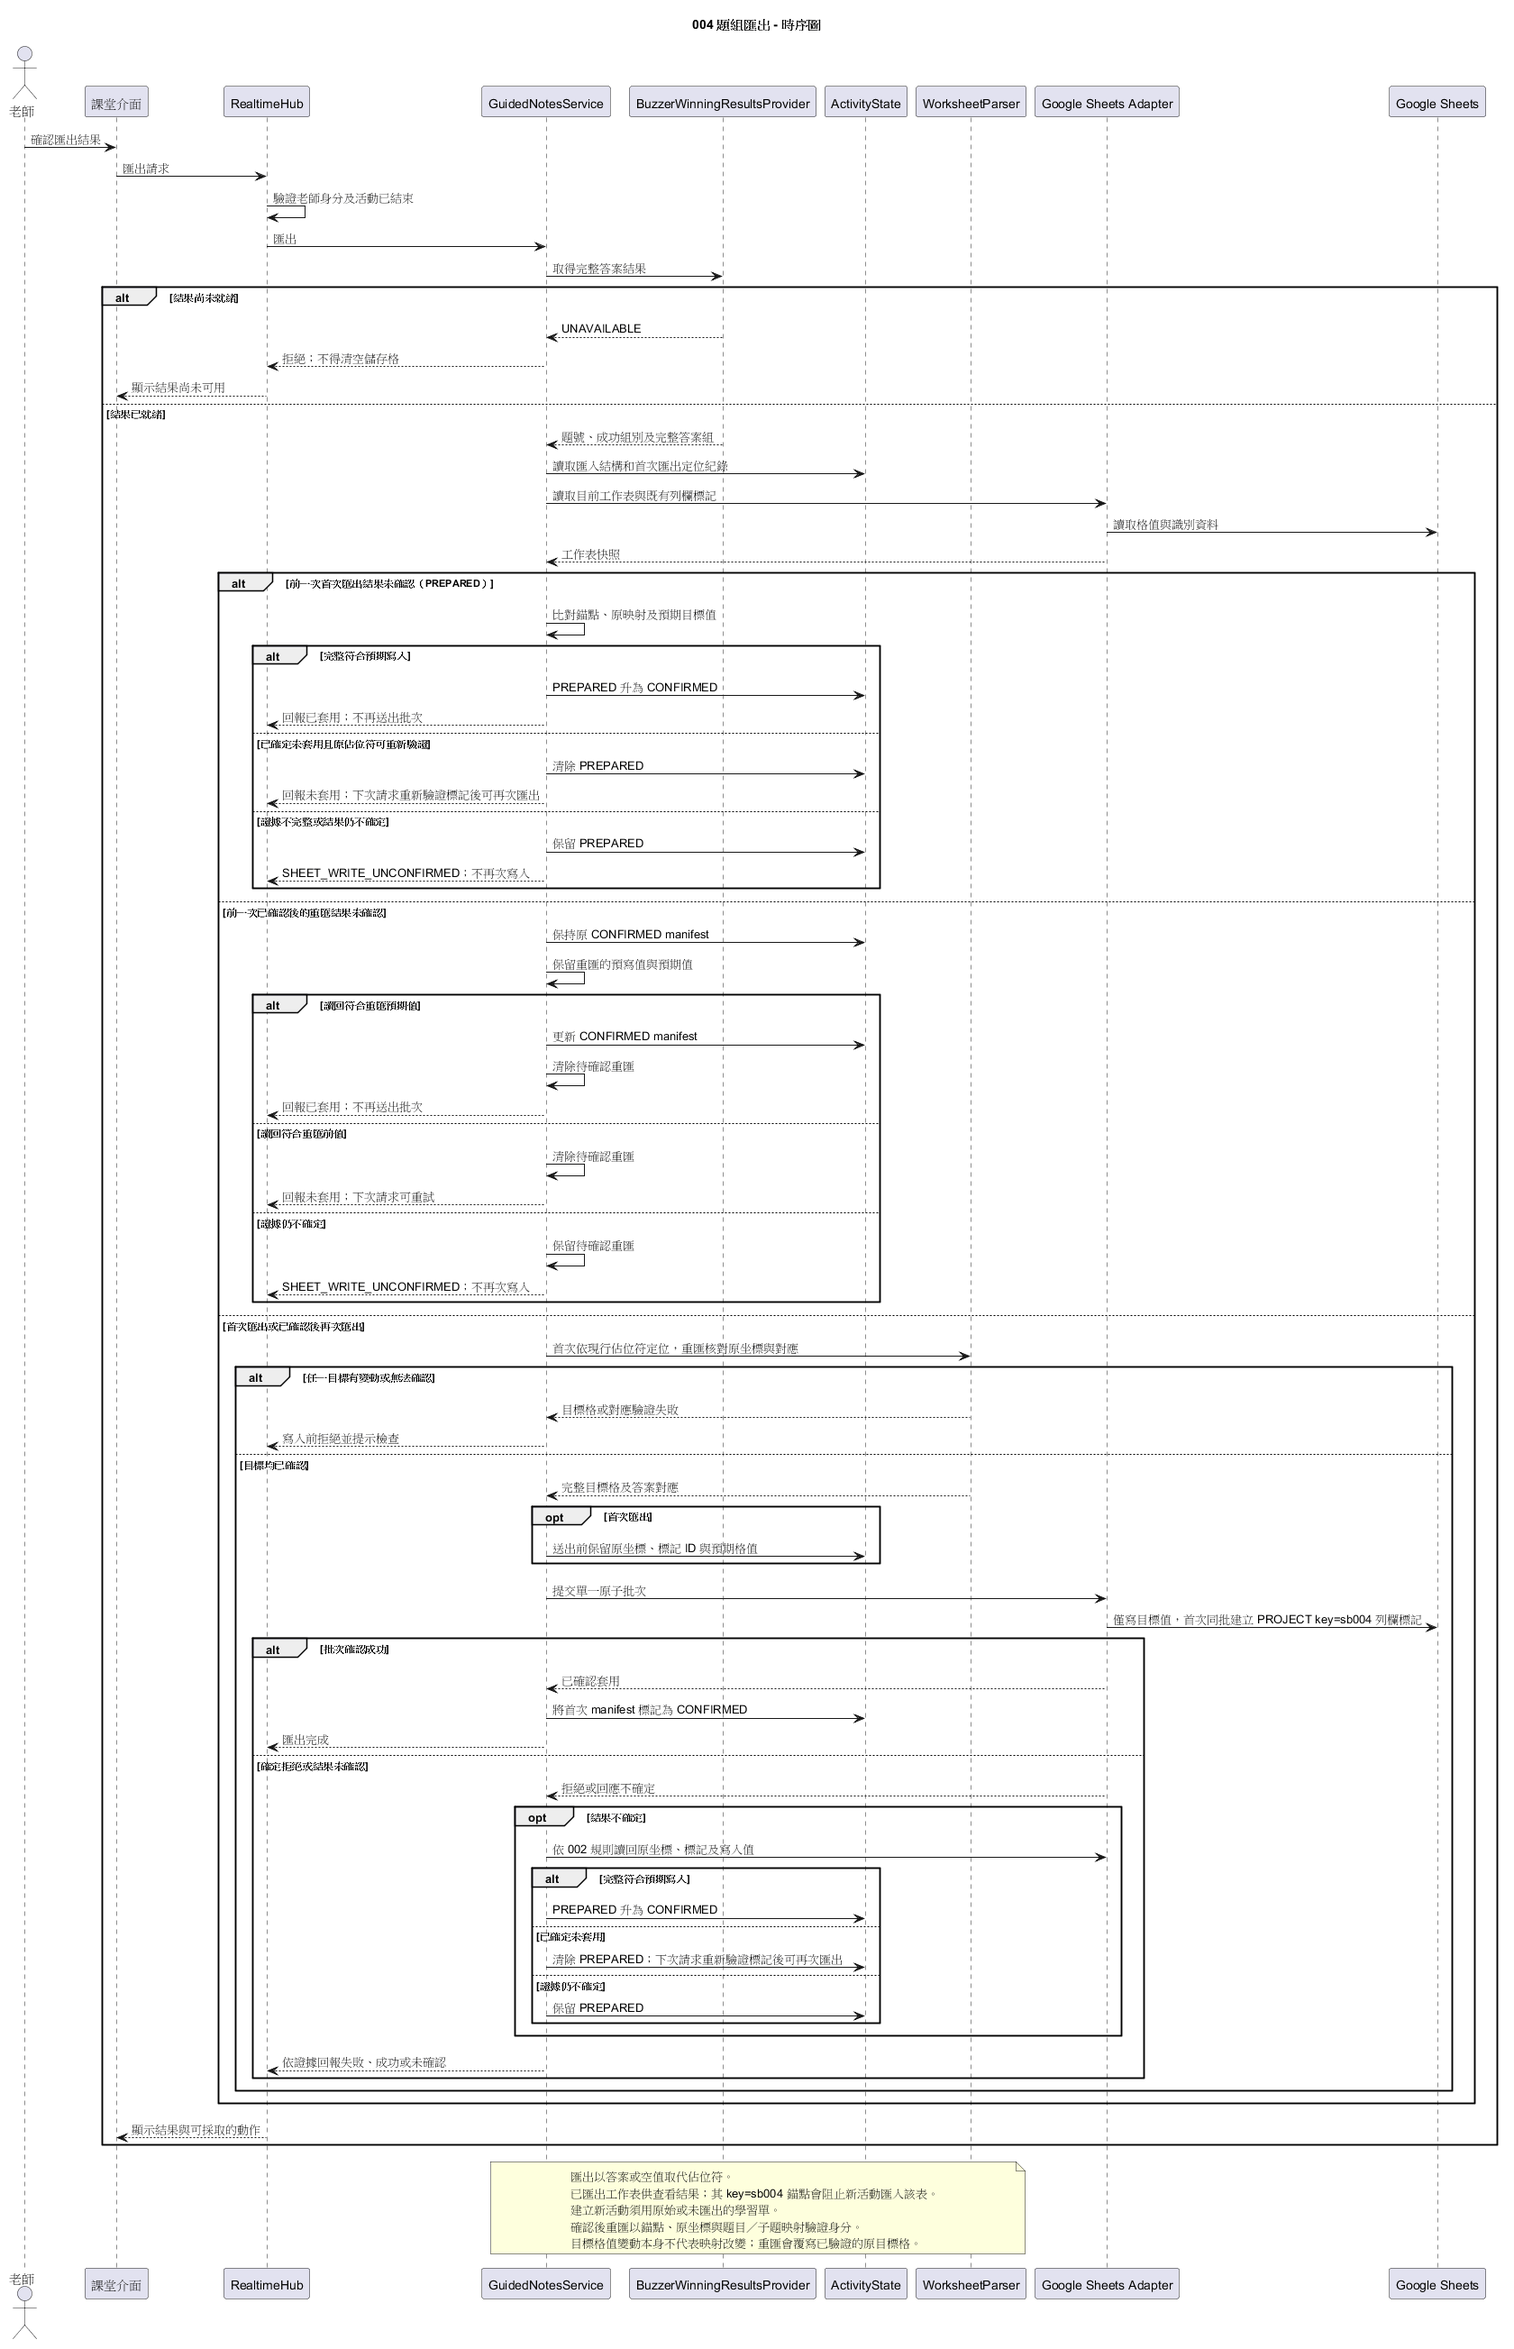
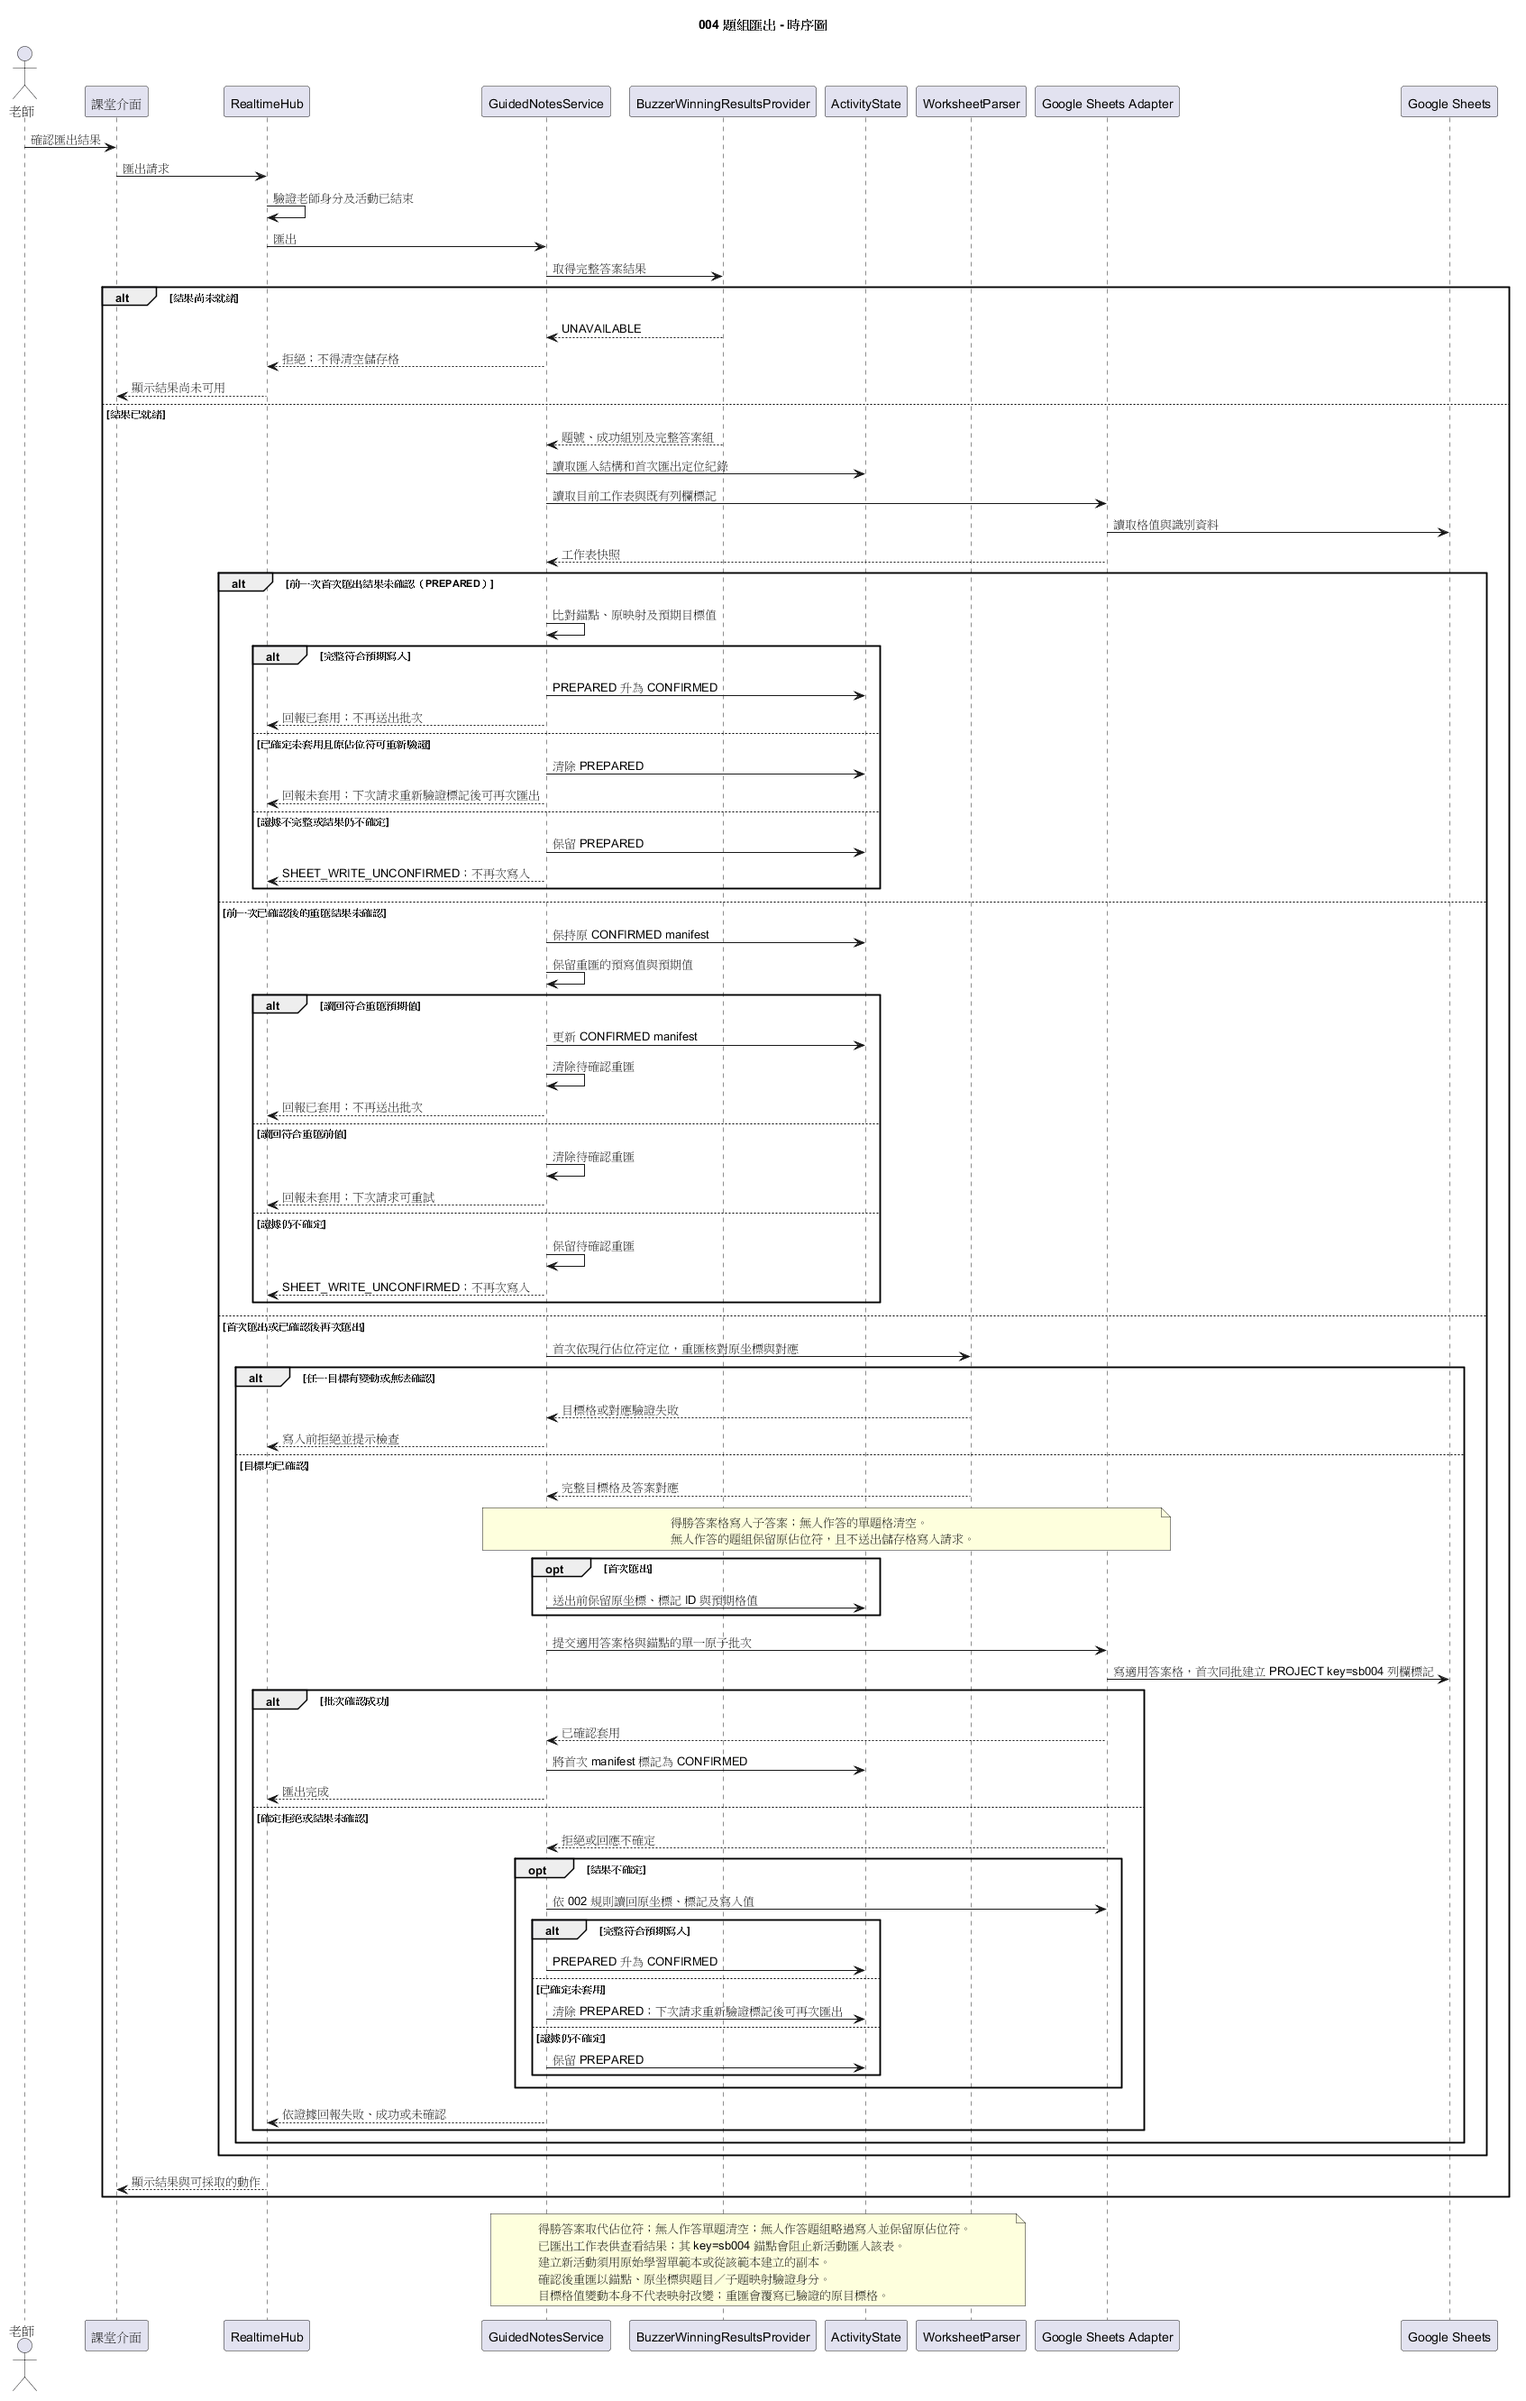
fix: finish approved question group follow-ups

diff --git a/backend/src/guided-notes/service.ts b/backend/src/guided-notes/service.ts
@@ -311,13 +311,12 @@ export class GuidedNotesService {
     return createExportManifest(worksheet, mapping, randomUUID(), metadataIds);
   }
 
-  #exportWrites(manifest: ExportManifest): readonly AnswerCellWrite[] {
-    const targetCounts = new Map<string, number>();
-    for (const target of manifest.targets) {
-      targetCounts.set(target.questionId, (targetCounts.get(target.questionId) ?? 0) + 1);
-    }
+  #exportWrites(manifest: ExportManifest, questions: readonly Question[]): readonly AnswerCellWrite[] {
+    const groupQuestionIds = new Set(questions
+      .filter((question) => question.kind === 'GROUP')
+      .map((question) => question.questionId));
     return manifest.targets.flatMap((target) => {
-      if ((targetCounts.get(target.questionId) ?? 0) > 1 && target.intendedValue === null) return [];
+      if (groupQuestionIds.has(target.questionId) && target.intendedValue === null) return [];
       return [{
         questionId: target.questionId,
         rowNumber: target.rowNumber,
@@ -327,8 +326,8 @@ export class GuidedNotesService {
     });
   }
 
-  #resultForManifest(manifest: ExportManifest): ExportAnswersResult {
-    const writes = this.#exportWrites(manifest);
+  #resultForManifest(manifest: ExportManifest, questions: readonly Question[]): ExportAnswersResult {
+    const writes = this.#exportWrites(manifest, questions);
     const winnerIds = new Set(manifest.targets
       .filter((target) => target.intendedValue !== null)
       .map((target) => target.questionId));
@@ -344,12 +343,12 @@ export class GuidedNotesService {
     const state = activity.exportAnchorState;
     if (state.status !== 'PREPARED') throw new TypeError('Export reconciliation requires PREPARED state.');
     const { manifest } = state;
-    const result = this.#resultForManifest(manifest);
+    const result = this.#resultForManifest(manifest, activity.questions);
 
     const sheetAnchors = sheetScopedExportAnchors(metadata, worksheet);
     if (sheetAnchors.length === manifest.anchors.length) {
       validateConfirmedExportManifest(grid.values, activity.questions, worksheet, manifest, metadata);
-      if (manifestTargetsMatch(grid, manifest, 'intendedValue')) {
+      if (manifestTargetsMatch(grid, manifest, 'intendedValue', activity.questions)) {
         activity.setExportAnchorState({ status: 'CONFIRMED', manifest });
         return result;
       }
@@ -471,12 +470,12 @@ export class GuidedNotesService {
           }
           const pending = this.#pendingRepeat;
           validateConfirmedExportManifest(evidence.grid.values, activity.questions, worksheet, state.manifest, evidence.metadata);
-          if (manifestTargetsMatch(evidence.grid, pending, 'intendedValue')) {
+          if (manifestTargetsMatch(evidence.grid, pending, 'intendedValue', activity.questions)) {
             activity.setExportAnchorState({ status: 'CONFIRMED', manifest: pending });
             this.#pendingRepeat = null;
-            return this.#resultForManifest(pending);
+            return this.#resultForManifest(pending, activity.questions);
           }
-          if (manifestTargetsMatch(evidence.grid, pending, 'prewriteValue')) {
+          if (manifestTargetsMatch(evidence.grid, pending, 'prewriteValue', activity.questions)) {
             this.#pendingRepeat = null;
             throw new GuidedNotesServiceError('SHEET_WRITE_FAILED', '再次寫回未套用，學習單資料未變更；請檢查連線後再試。');
           }
@@ -504,7 +503,7 @@ export class GuidedNotesService {
               })(),
             })),
           };
-          const successResult = this.#resultForManifest(pendingManifest);
+          const successResult = this.#resultForManifest(pendingManifest, activity.questions);
           if (writes.every((write) => worksheetCellValue(evidence.grid, write) === write.value)) {
             activity.setExportAnchorState({ status: 'CONFIRMED', manifest: pendingManifest });
             return successResult;
@@ -524,13 +523,13 @@ export class GuidedNotesService {
             try {
               const readBack = await this.#readExportEvidence(context, sheets, worksheet, resolved);
               validateConfirmedExportManifest(readBack.grid.values, activity.questions, worksheet, pendingManifest, readBack.metadata);
-              if (manifestTargetsMatch(readBack.grid, pendingManifest, 'intendedValue')) {
+              if (manifestTargetsMatch(readBack.grid, pendingManifest, 'intendedValue', activity.questions)) {
                 activity.setExportAnchorState({ status: 'CONFIRMED', manifest: pendingManifest });
                 this.#pendingRepeat = null;
                 context.writeMayHaveApplied = false;
                 return successResult;
               }
-              if (manifestTargetsMatch(readBack.grid, pendingManifest, 'prewriteValue')) {
+              if (manifestTargetsMatch(readBack.grid, pendingManifest, 'prewriteValue', activity.questions)) {
                 this.#pendingRepeat = null;
                 context.writeMayHaveApplied = false;
                 throw new GuidedNotesServiceError('SHEET_WRITE_FAILED', '再次寫回未套用，學習單資料未變更；請檢查連線後再試。');
@@ -558,8 +557,8 @@ export class GuidedNotesService {
           evidence.grid.rawValues,
         );
         const manifest = this.#newExportManifest(worksheet, mapping);
-        const writes = this.#exportWrites(manifest);
-        const successResult = this.#resultForManifest(manifest);
+        const writes = this.#exportWrites(manifest, activity.questions);
+        const successResult = this.#resultForManifest(manifest, activity.questions);
         activity.setExportAnchorState({ status: 'PREPARED', manifest });
         try {
           await this.#writeWithRetry(context, () => sheets.batchExport(resolved, writes, manifest.anchors));
@@ -626,16 +625,16 @@ function manifestTargetsMatch(
   grid: WorksheetGrid,
   manifest: ExportManifest,
   expectedField: 'prewriteValue' | 'intendedValue',
+  questions: readonly Question[],
 ): boolean {
-  const targetCounts = new Map<string, number>();
-  for (const target of manifest.targets) {
-    targetCounts.set(target.questionId, (targetCounts.get(target.questionId) ?? 0) + 1);
-  }
+  const groupQuestionIds = new Set(questions
+    .filter((question) => question.kind === 'GROUP')
+    .map((question) => question.questionId));
   return manifest.targets.every((target) => {
     if (expectedField === 'prewriteValue') {
       return worksheetCellRawValue(grid, target.rowNumber, target.answerColumnNumber) === target.prewriteValue;
     }
-    if (target.intendedValue === null && (targetCounts.get(target.questionId) ?? 0) > 1) {
+    if (target.intendedValue === null && groupQuestionIds.has(target.questionId)) {
       return worksheetCellRawValue(grid, target.rowNumber, target.answerColumnNumber) === target.prewriteValue;
     }
     return worksheetCellValue(grid, {
@@ -685,7 +684,7 @@ function firstExportCommitted(
   } catch {
     return false;
   }
-  return manifestTargetsMatch(grid, manifest, 'intendedValue');
+  return manifestTargetsMatch(grid, manifest, 'intendedValue', questions);
 }
 
 function createExportResult(writes: readonly AnswerCellWrite[], winnerIds: ReadonlySet<string>): ExportAnswersResult {

diff --git a/specs/004-question-groups/tasks.md b/specs/004-question-groups/tasks.md
@@ -108,7 +108,7 @@ description: "Dependency-ordered implementation tasks for Feature 004 question g
 - [X] T029 Run repository regression gates from `package.json`: `npm run typecheck`, backend and frontend workspace Vitest, `npm run test:e2e --workspace @speckit-buzzer/frontend`, and `npm run build`; record exact commands and actual results in `specs/004-question-groups/quickstart.md`, marking unrun checks as unrun.
 - [X] T030 Benchmark import and export separately with a disposable Google worksheet and backend environment credentials using the Feature 002 reference size (up to 100 top-level questions, 1,000 rows × 26 columns); verify each completes within 10 seconds and record test conditions/results in `specs/004-question-groups/quickstart.md`.
 - [X] T031 Run the constitution-required `$speckit-converge` check against `specs/004-question-groups/spec.md`, `plan.md`, `tasks.md`, the implementation, and `diagrams/004-question-groups-*.puml` after implementation; add any remaining unbuilt work to `specs/004-question-groups/tasks.md` and resolve it before PR review.
-- [ ] T032 Prepare the Feature 004 PR from `codex/004-question-groups` with only the implementation, `diagrams/004-*`, and `specs/004-question-groups/`; include evidence from `specs/004-question-groups/quickstart.md` and obtain the constitution-required review before merge.
+- [X] T032 Prepare the Feature 004 PR from `codex/004-question-groups` with the implementation, `README.md`, `diagrams/004-*`, and `specs/004-question-groups/`; include evidence from `specs/004-question-groups/quickstart.md` and obtain the constitution-required review before merge.
 
 ---
 
@@ -202,3 +202,8 @@ Task: "T022 export browser tests in frontend/tests/e2e/guided-notes-export.spec.
 - [X] T035 Accept full-width, half-width, and mixed-style group markers; reject mismatched delimiters; cover all forms in parser tests and align the worksheet contract wording with the mixed-style rule.
 - [X] T036 Preserve no-winner group placeholders with no answer-cell writes while still clearing no-winner single cells; cover initial and repeated exports in mapping, service integration, Playwright, and live Sheets tests.
 - [X] T037 Update PR evidence with exact 16,384/16,385-byte boundary coverage, explain the `sb004` metadata and reimport guard/reset tradeoff, check whether the actual teacher worksheet fixture is available, and request a new review. Do not substitute a synthetic fixture for an unavailable source template.
+
+## Phase 10: Approved Review Follow-ups
+
+- [X] T038 Use question `kind` to identify groups in export selection and read-back reconciliation; clarify no-winner group omission in the export sequence diagram, regenerate its PNG, and document exported-sheet reuse in README.
+- [ ] T039 Add cell-by-cell fixture tests for both reviewer-provided teacher CSV templates once those files are received.

diff --git a/specs/004-question-groups/quickstart.md b/specs/004-question-groups/quickstart.md
@@ -154,7 +154,8 @@ The script must print `GUIDED_NOTES_SERVICE_BENCHMARK=PASS` and `scratch_targets
 - `npm run test --workspace @speckit-buzzer/frontend`: 2 files / 10 tests passed, including exact 16,384/16,385-byte browser transport cases.
 - `npm run test:e2e --workspace @speckit-buzzer/frontend`: 37 Playwright tests passed. Export E2E asserts the no-winner group markers remain unchanged on first and repeated export.
 - `npm run typecheck` and `npm run build`: both passed for frontend and backend.
-- The optional cell-by-cell teacher-template fixture was not added because no teacher spreadsheet file exists in either the repository worktree or the original Desktop checkout; no synthetic file was represented as the teacher's template.
+- The export service selects no-winner handling from `Question.kind`; the export sequence PlantUML source and PNG now state that no-winner group cells have no write request, and `README.md` explains how to reuse an original worksheet template for repeat tests.
+- The cell-by-cell teacher-template fixture remains pending: the two CSVs mentioned in the review are not in the worktree or original Desktop checkout yet. No synthetic file was represented as the teacher's template; see pending task T039.
 
 Under the Feature 002 reference conditions—at most 100 top-level question IDs, grid no larger than 1,000 rows × 26 columns, no injected network delay or quota/transient API error—each operation must complete in 10 seconds or less. After export, also verify:
 

diff --git a/README.md b/README.md
@@ -1,1 +1,3 @@
 # speckit-buzzer
+
+匯出的學習單已取代題組佔位符並寫入 `sb004` 錨點，不能再匯入為新活動；重複測試請使用原始學習單範本的副本。
